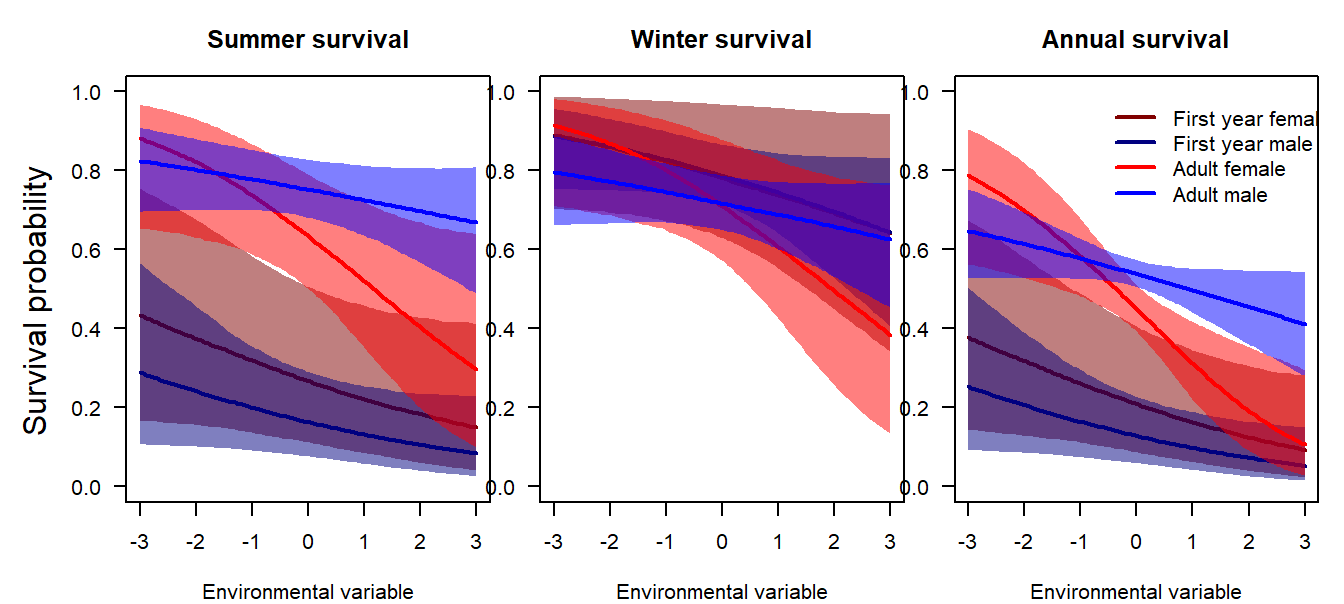
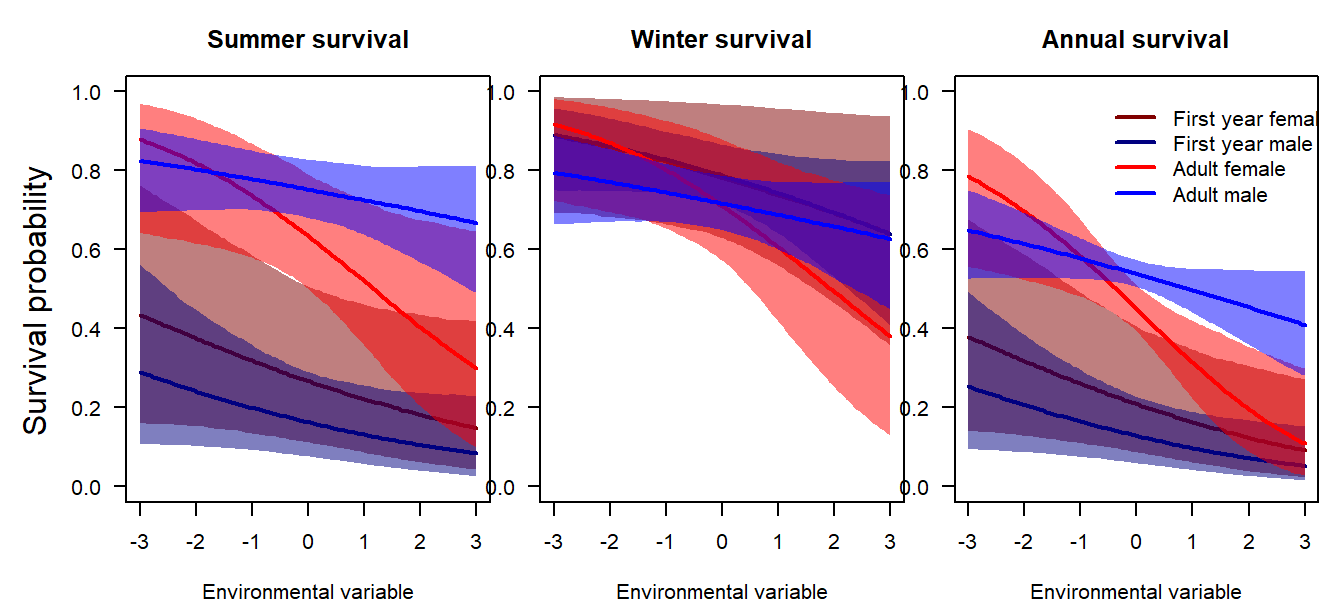
updated population simulation based on current knowledge

diff --git a/docs/population-model.html b/docs/population-model.html
@@ -146,16 +146,24 @@ div.csl-indent {
 <li><p>Build breeding pairs: With the females and males present in the population, the breeding pairs are formed. The number of brereding pairs corresponds to the minimum of the number of males and females.</p></li>
 <li><p>The number of broods per breeding pair is simulated based on the temperature early and late in the breeding season according to Figure <a href="data.html#fig:funnrbrood">3.2</a>. At this step, a certain proportion of pairs are assigned to be non-breeders (number of broods is zero).</p></li>
 <li><p>Number of fledglings per brood is simulated based on the date of the brood (Figure <a href="data.html#fig:nrfeldglings">3.3</a>). To keep the model simple for the moment, we assume that the first broods hatch at day 162 and the second broods at day 190.</p></li>
-<li><p>Summer and winter survival is simulated for each individual assuming a survival probability defined by the functions visualised in Figure <a href="data.html#fig:survivalfunctions">3.6</a>.</p></li>
+<li><p>Summer and winter survival is simulated for each individual assuming a survival probability defined by the functions visualised in Figure <a href="data.html#fig:survivalfunctions">3.6</a>. We use the average temperature during breeding season (average over early and late) as predictor for survival.</p></li>
 <li><p>The simulation proceeds wit step 1. with the individuals that survived until the beginning of the following breeding season.</p></li>
 </ol>
 </div>
 <div id="predicted-population-trajectories" class="section level2 hasAnchor" number="4.3">
 <h2><span class="header-section-number">4.3</span> Predicted population trajectories<a href="population-model.html#predicted-population-trajectories" class="anchor-section" aria-label="Anchor link to header"></a></h2>
+<p>With the above collated information on the number of broods per female and year, the number of fledglings per brood and survival we predict that a population of 3500 females decreases in average to around 1000 within 10 years (Figure <a href="population-model.html#fig:vispopcurrentknow">4.1</a>). The population trend is 0.85 (95% CI: 0.66 - 1.1).</p>
+<p>Before the population trajectory can be used as a prediction of the future of Snowfinch populations several points need to be improved in the population model, for example:</p>
+<ul>
+<li><p>As average survival we used the estimates for apparent survival instead of true survival. Apparent survival normally is lower than true survival because it is the product of fidelity to the study area and survival. Therefore, our model may use too low survival probabilities. To get estimates for true survival we could either account for emigration in the survival model (see above) or we could gradually increase the survival estimates in the population model until the resulting trend corresponds to the observed population trend in Switzerland (<a href="https://www.vogelwarte.ch/de/voegel-der-schweiz/schneesperling/" class="uri">https://www.vogelwarte.ch/de/voegel-der-schweiz/schneesperling/</a>).</p></li>
+<li><p>The (standardised) temperature values we now used to simulate among-year variance in the number of broods and survival would be needed to be measured relative to the temperature when the demographic parameters were measured. The current model assumes that the average temperature in the 10 virtual “future” years is the same as it was when the demographic parameters were measured.</p></li>
+<li><p>We assumed that in average (i.e. for average temperature values) the proportion of non-breeders is 10%, and that this proportion increases or decreases depending on the length of the breeding season that is defined by temperature early and late in the breeding season. The value of 10% is nothing else than a gut-feeling, no data is yet available. We are currently using data loggers to collect exactly that data. Alternatively, we could use our model to reconstruct the population trend since 1990 and vary the proportion of non-breeders until the trend correspond to the observed one (<a href="https://www.vogelwarte.ch/de/voegel-der-schweiz/schneesperling/" class="uri">https://www.vogelwarte.ch/de/voegel-der-schweiz/schneesperling/</a>). This alternative is possible as soon as we have empirical estimates of true survival.</p></li>
+<li><p>For sure, there are further points to be considered.</p></li>
+</ul>
 <div class="figure"><span style="display:block;" id="fig:vispopcurrentknow"></span>
-<img src="predictive_model_files/figure-html/vispopcurrentknow-1.png" alt="90% range of simulated population trajectories based on current knowledge on demographic parameters. The variance in the trajectories reflects current uncertainties of demographic parameters." width="672" />
+<img src="predictive_model_files/figure-html/vispopcurrentknow-1.png" alt="90% range of simulated population trajectories based on current knowledge on demographic parameters." width="672" />
 <p class="caption">
-Figure 4.1: 90% range of simulated population trajectories based on current knowledge on demographic parameters. The variance in the trajectories reflects current uncertainties of demographic parameters.
+Figure 4.1: 90% range of simulated population trajectories based on current knowledge on demographic parameters.
 </p>
 </div>
 </div>

diff --git a/docs/data.html b/docs/data.html
@@ -161,7 +161,7 @@ Figure 3.1: Reported proportion of second broods in different studies (point) wi
 </p>
 </div>
 <p>The resulting average proportion of second broods has a high uncertainty. Its 95% uncertainty interval ranges from 0.2 to 0.97, and the mean is 0.75 (Figure <a href="data.html#fig:metanrbrood">3.1</a>).</p>
-<p>For the population model, we use a proportion of non-breeding females of 0.1 in average and an uncertainty interval of 0.03 to 0.22 to account for the fact that we know little about this demographic parameter.</p>
+<p>For the population model, we use a proportion of non-breeding females of 0.1 in average and an uncertainty interval of 0.03 to 0.21 to account for the fact that we know little about this demographic parameter.</p>
 <p>We derive the two intercepts of a multinomial model from the proportion of non-breeders and the proportion of females with second broods among the breeding females using Monte Carlo simulations to propagate the uncertainty. The proportions (of non-breeders, females with one and two broods) defined by the intercepts are used for average temperature values.</p>
 <p>Citizen science data (ornitho.ch) from the last 20 yeara revealed that the Snowfinch breeding season started already mid May when June temperatures were high and it started mid June, when June temperatures were low (Niffenegger in prep.). Also, we saw a variation in the ending of the breeding season depending on July temperature. The warmer in July, the earlier breeding ended. Thus, both June and July temperature may finally affect the number of broods in total by one brood (for which around one month is needed) along their ranges of values. We derive effect sizes for June and July temperature that correspond to a change by one brood from the lowest to the highest temperature values.</p>
 <div class="figure"><span style="display:block;" id="fig:funnrbrood"></span>

diff --git a/docs/predictive_model.md b/docs/predictive_model.md
@@ -73,7 +73,7 @@ We use a hierarchical meta-analysis to combine the information from the differen
 The resulting average proportion of second broods has a high uncertainty. Its 95% uncertainty interval ranges from 0.2 to  0.97, and the mean is 0.75 (Figure \@ref(fig:metanrbrood)).
 
 
-For the population model, we use a proportion of non-breeding females of 0.1 in average and an uncertainty interval of 0.03 to 0.22 to account for the fact that we know little about this demographic parameter. 
+For the population model, we use a proportion of non-breeding females of 0.1 in average and an uncertainty interval of 0.03 to 0.21 to account for the fact that we know little about this demographic parameter. 
 
 We derive the two intercepts of a multinomial model from the proportion of non-breeders and the proportion of females with second broods among the breeding females using Monte Carlo simulations to propagate the uncertainty. The proportions (of non-breeders, females with one and two broods) defined by the intercepts are used for average temperature values. 
 
@@ -215,7 +215,7 @@ To simulate the population trajectory, we follow the structure presented in Figu
 
 3. Number of fledglings per brood is simulated based on the date of the brood (Figure \@ref(fig:nrfeldglings)). To keep the model simple for the moment, we assume that the first broods hatch at day 162 and the second broods at day 190.
 
-4. Summer and winter survival is simulated for each individual assuming a survival probability defined by the functions visualised in Figure \@ref(fig:survivalfunctions). 
+4. Summer and winter survival is simulated for each individual assuming a survival probability defined by the functions visualised in Figure \@ref(fig:survivalfunctions). We use the average temperature during breeding season (average over early and late) as predictor for survival.  
 
 5. The simulation proceeds wit step 1. with the individuals that survived until the beginning of the following breeding season.  
 
@@ -225,12 +225,35 @@ To simulate the population trajectory, we follow the structure presented in Figu
 
 
 
+
 ## Predicted population trajectories
 
+
+
+
+
+With the above collated information on the number of broods per female and year, the number of fledglings per brood and survival we predict that a population of 3500 females decreases in average to around 1000 within 10 years (Figure \@ref(fig:vispopcurrentknow)). The population trend is 0.85 (95% CI: 0.66 - 1.1).  
+
+
+Before the population trajectory can be used as a prediction of the future of Snowfinch populations several points need to be improved in the population model, for example:  
+
+- As average survival we used the estimates for apparent survival instead of true survival. Apparent survival normally is lower than true survival because it is the product of fidelity to the study area and survival. Therefore, our model may use too low survival probabilities. To get estimates for true survival we could either account for emigration in the survival model (see above) or we could gradually increase the survival estimates in the population model until the resulting trend corresponds to the observed population trend in Switzerland (https://www.vogelwarte.ch/de/voegel-der-schweiz/schneesperling/).  
+
+- The (standardised) temperature values we now used to simulate among-year variance in the number of broods and survival would be needed to be measured relative to the temperature when the demographic parameters were measured. The current model assumes that the average temperature in the 10 virtual "future" years is the same as it was when the demographic parameters were measured.   
+
+- We assumed that in average (i.e. for average temperature values) the proportion of non-breeders is 10%, and that this proportion increases or decreases depending on the length of the breeding season that is defined by temperature early and late in the breeding season. The value of 10% is nothing else than a gut-feeling, no data is yet available. We are currently using data loggers to collect exactly that data. Alternatively, we could use our model to reconstruct the population trend since 1990 and vary the proportion of non-breeders until the trend correspond to the observed one (https://www.vogelwarte.ch/de/voegel-der-schweiz/schneesperling/). This alternative is possible as soon as we have empirical estimates of true survival.  
+
+- For sure, there are further points to be considered.   
+
+
 <div class="figure">
-<img src="predictive_model_files/figure-html/vispopcurrentknow-1.png" alt="90% range of simulated population trajectories based on current knowledge on demographic parameters. The variance in the trajectories reflects current uncertainties of demographic parameters." width="672" />
-<p class="caption">(\#fig:vispopcurrentknow)90% range of simulated population trajectories based on current knowledge on demographic parameters. The variance in the trajectories reflects current uncertainties of demographic parameters.</p>
+<img src="predictive_model_files/figure-html/vispopcurrentknow-1.png" alt="90% range of simulated population trajectories based on current knowledge on demographic parameters." width="672" />
+<p class="caption">(\#fig:vispopcurrentknow)90% range of simulated population trajectories based on current knowledge on demographic parameters.</p>
 </div>
+
+
+
+
 
 # References
 
